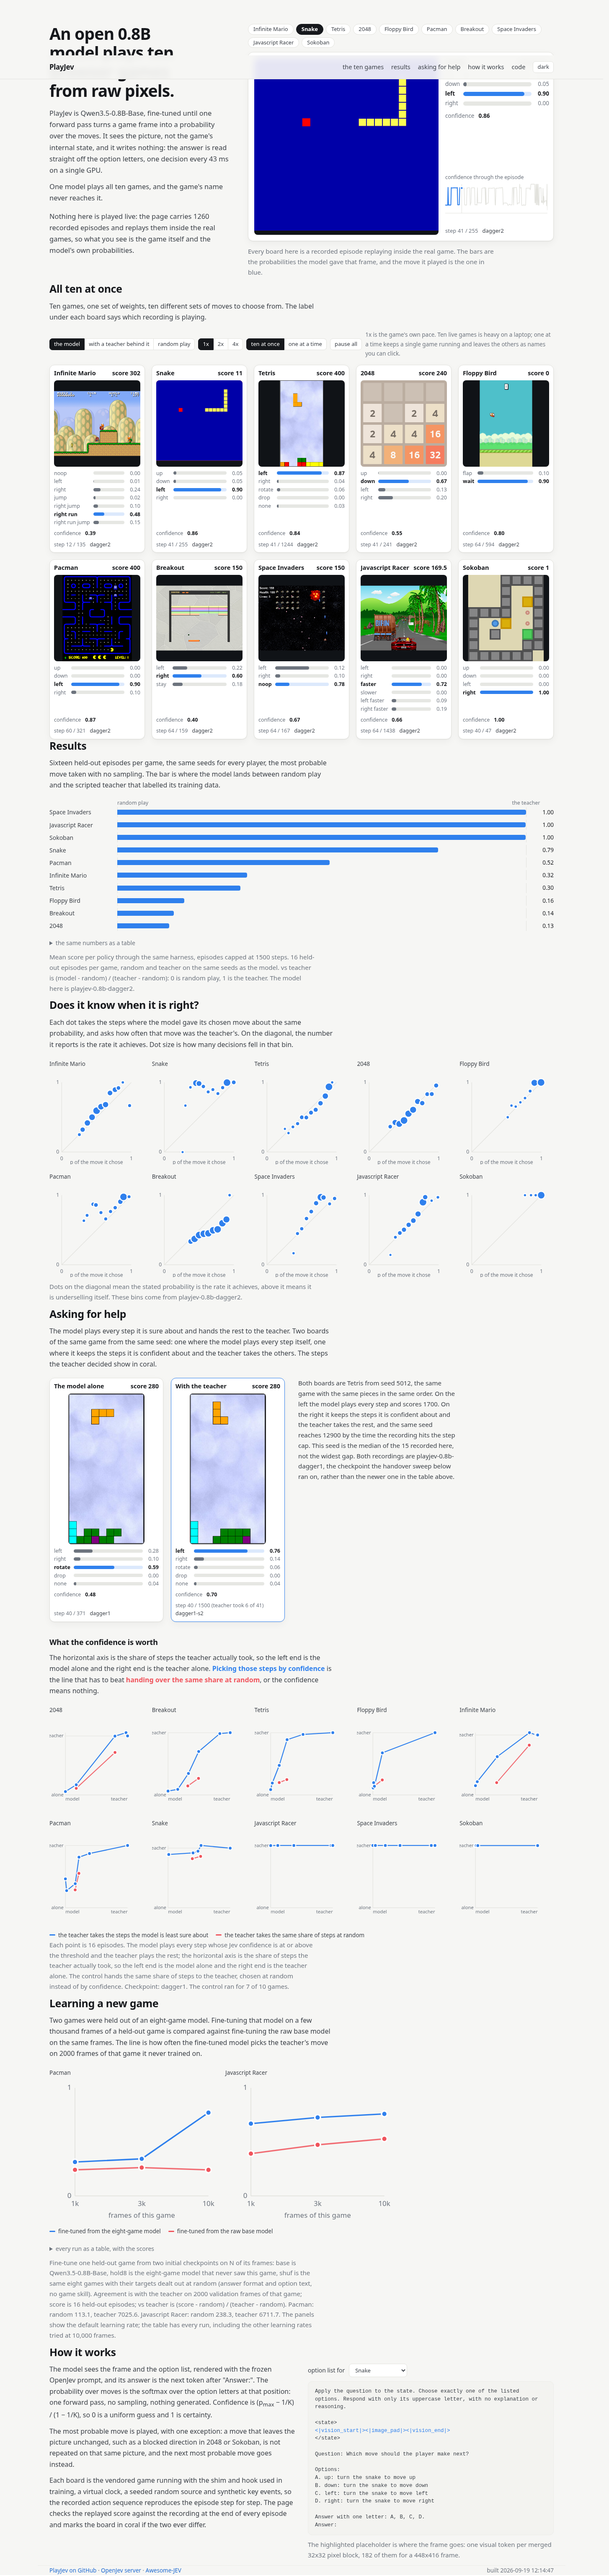
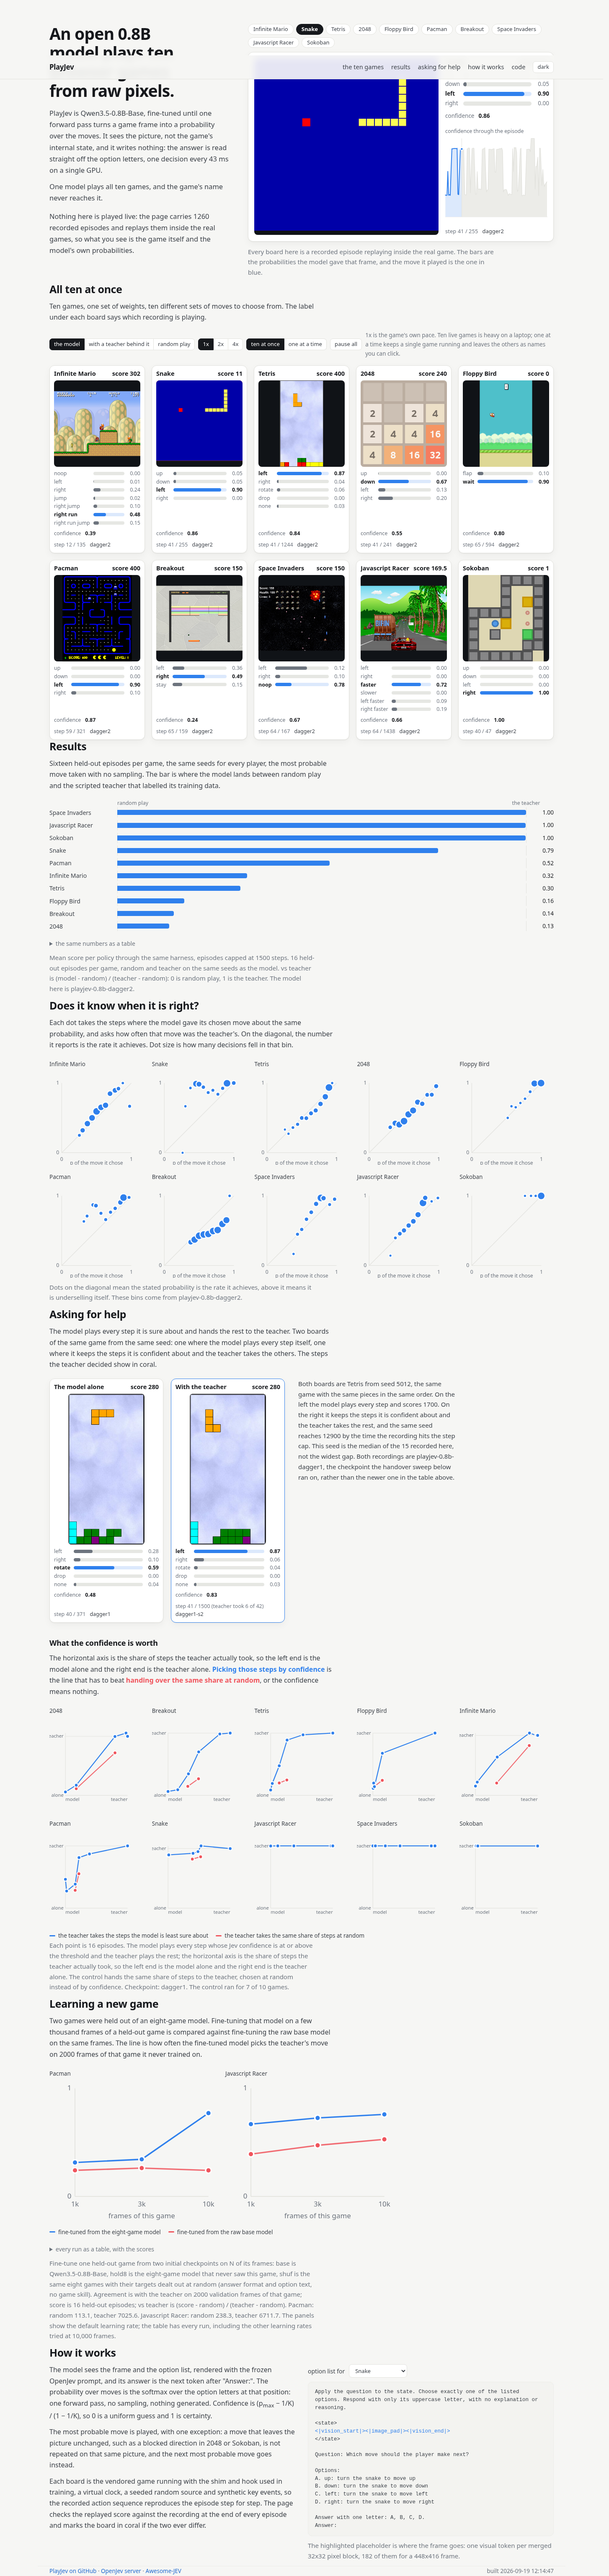
demo: confidence trace fills the featured readout, bucket-mean downsampling, area fill

diff --git a/demo/demo.js b/demo/demo.js
@@ -164,7 +164,7 @@
         const tr = this.trace = el('div', 'trace');
         tr.appendChild(el('span', 'tlabel', 'confidence through the episode'));
         const svg = this.traceSvg = document.createElementNS(NS, 'svg');
-        svg.setAttribute('viewBox', '0 0 240 96'); svg.setAttribute('aria-hidden', 'true');
+        svg.setAttribute('aria-hidden', 'true');
         tr.appendChild(svg); root.appendChild(tr);
         this.traceInit(null);
       }
@@ -226,6 +226,15 @@
       this.iframe.style.clipPath = `inset(${r.y.toFixed(2)}px ${(V.width - r.x - r.w).toFixed(2)}px ${(V.height - r.y - r.h).toFixed(2)}px ${r.x.toFixed(2)}px)`;
       this.iframe.style.transform = `translate(${tx.toFixed(2)}px, ${ty.toFixed(2)}px) scale(${s.toFixed(5)})`;
       this.iframe.classList.add('shown');
+      // The trace is sized by the room left in the readout, so a resize redraws it at the new size.
+      if (this.traceSteps) {
+        const b = this.traceSvg.getBoundingClientRect();
+        if (Math.abs(b.width - this.traceW) > 1 || Math.abs(b.height - this.traceH) > 1) {
+          const last = this.traceLast, steps = this.traceSteps;
+          this.traceInit(steps);
+          if (last) this.traceAt(last[0], last[1], last[2]);
+        }
+      }
       if (this.onFit) this.onFit(r);
     }
     showOverlay(text, err) { if (text == null) { this.overlay.hidden = true; return; } this.overlay.hidden = false; this.overlay.textContent = text; this.overlay.classList.toggle('err', !!err); }
@@ -247,21 +256,39 @@
     traceInit(steps) {
       if (!this.trace) return;
       const svg = this.traceSvg; while (svg.firstChild) svg.removeChild(svg.firstChild);
-      this.traceRect = null;
-      const W = 240, H = 96, TOP = 4, BASE = 72;
+      this.traceRect = null; this.traceLast = null; this.traceSteps = steps || null;
+      // The box is whatever the readout column has left over, and the line is drawn in its own pixels.
+      const box = svg.getBoundingClientRect();
+      const W = this.traceW = Math.max(120, Math.round(box.width) || 240);
+      const H = this.traceH = Math.max(64, Math.round(box.height) || 96);
+      svg.setAttribute('viewBox', '0 0 ' + W + ' ' + H);
+      const TOP = 5, BASE = H - 16;
       svgEl(svg, 'line', { x1: 0, y1: BASE, x2: W, y2: BASE }, 'tbase');
       if (!steps || steps.length < 2) return;
       const N = steps.length;
       const X = (i) => (i / (N - 1)) * W, Y = (c) => TOP + (1 - Math.max(0, Math.min(1, c))) * (BASE - TOP);
-      const stride = Math.max(1, Math.ceil(N / 300));
-      let d = '';
-      for (let i = 0; i < N; i += stride) d += (d ? 'L' : 'M') + X(i).toFixed(1) + ' ' + Y(confidence(steps[i].p)).toFixed(1);
-      d += 'L' + X(N - 1).toFixed(1) + ' ' + Y(confidence(steps[N - 1].p)).toFixed(1);
+      // A long episode has more steps than the box has pixels, so each point is the mean of the steps behind it:
+      // taking every nth step instead would turn a thousand-step game into noise.
+      const M = Math.max(2, Math.min(N, Math.round(W / 2)));
+      let d = '', x0 = 0, x1 = 0;
+      for (let b = 0; b < M; b++) {
+        const s0 = Math.floor((b * N) / M), s1 = Math.max(s0 + 1, Math.floor(((b + 1) * N) / M));
+        let sum = 0;
+        for (let i = s0; i < s1; i++) sum += confidence(steps[i].p);
+        const x = X((s0 + s1 - 1) / 2);
+        if (!d) x0 = x;
+        x1 = x;
+        d += (d ? 'L' : 'M') + x.toFixed(1) + ' ' + Y(sum / (s1 - s0)).toFixed(1);
+      }
+      // The same shape closed down to the baseline: the fill is what carries the line across a tall box.
+      const da = d + 'L' + x1.toFixed(1) + ' ' + BASE + 'L' + x0.toFixed(1) + ' ' + BASE + 'Z';
+      svgEl(svg, 'path', { d: da }, 'tafull');
       svgEl(svg, 'path', { d }, 'tfull');
       this.traceUid = (this.traceUid || 0) + 1;
       const cid = 'tc-' + this.game.id + '-' + this.traceUid;
       const clip = document.createElementNS(NS, 'clipPath'); clip.setAttribute('id', cid); svg.appendChild(clip);
       this.traceRect = svgEl(clip, 'rect', { x: -4, y: 0, width: 0, height: H });
+      svgEl(svg, 'path', { d: da, 'clip-path': 'url(#' + cid + ')' }, 'taplayed');
       svgEl(svg, 'path', { d, 'clip-path': 'url(#' + cid + ')' }, 'tplayed');
       let ticks = '';
       for (let i = 0; i < N; i++) if (steps[i].h) ticks += 'M' + X(i).toFixed(1) + ' ' + (BASE + 5) + 'v7';
@@ -272,6 +299,7 @@
     }
     traceAt(i, c, h) {
       if (!this.traceRect) return;
+      this.traceLast = [i, c, h];
       const x = this.traceX(i), y = this.traceY(c);
       this.traceRect.setAttribute('width', (x + 4).toFixed(1));
       this.traceNow.setAttribute('x1', x.toFixed(1)); this.traceNow.setAttribute('x2', x.toFixed(1));

diff --git a/demo/demo.css b/demo/demo.css
@@ -218,14 +218,14 @@ button:focus-visible, select:focus-visible, a:focus-visible { outline: 2px solid
   .tile.hero {
     display: grid; grid-template-columns: minmax(0, 1fr) 244px;
     grid-template-areas: "board head" "board bars" "board conf" "board trace" "board foot";
-    /* the trace sits on the bottom of the slack row, so the readout column is anchored at both ends */
+    /* the trace takes whatever room the readout has left, so the column has no hole in it */
     grid-template-rows: auto auto auto 1fr auto;
   }
   .tile.hero .head { grid-area: head; font-size: 17px; }
   .tile.hero .board { grid-area: board; }
   .tile.hero .bars { grid-area: bars; }
   .tile.hero .conf { grid-area: conf; }
-  .tile.hero .trace { grid-area: trace; align-self: end; width: 100%; }
+  .tile.hero .trace { grid-area: trace; align-self: stretch; width: 100%; }
   .tile.hero .foot { grid-area: foot; align-content: start; margin-top: 0; }
 }
 /* --ar is the game's own width / height, set in fit(); a free board is exactly that shape, never letterboxed */
@@ -241,11 +241,14 @@ button:focus-visible, select:focus-visible, a:focus-visible { outline: 2px solid
 
 /* the episode's confidence as a line: played part blue, the rest faint, teacher steps as coral ticks */
 .tile .trace { display: none; margin-top: 2px; }
-.tile.hero .trace { display: block; }
+.tile.hero .trace { display: flex; flex-direction: column; min-height: 0; }
+.tile.hero .trace svg { flex: 1 1 auto; min-height: 56px; }
 .tile .trace .tlabel { display: block; font-size: 12.5px; color: var(--muted); margin-bottom: 1px; }
-.tile .trace svg { display: block; width: 100%; height: auto; }
+.tile .trace svg { display: block; width: 100%; height: auto; overflow: visible; }
 .trace .tbase { stroke: var(--line); stroke-width: 1; }
 .trace .tfull { fill: none; stroke: var(--line); stroke-width: 1.4; stroke-linejoin: round; }
+.trace .tafull { fill: var(--line-soft); stroke: none; }
+.trace .taplayed { fill: var(--accent-soft); stroke: none; }
 .trace .tplayed { fill: none; stroke: var(--accent); stroke-width: 2; stroke-linejoin: round; stroke-linecap: round; }
 .trace .ttick { stroke: var(--coral); stroke-width: 1.4; }
 .trace .tnow { stroke: var(--line); stroke-width: 1; }
